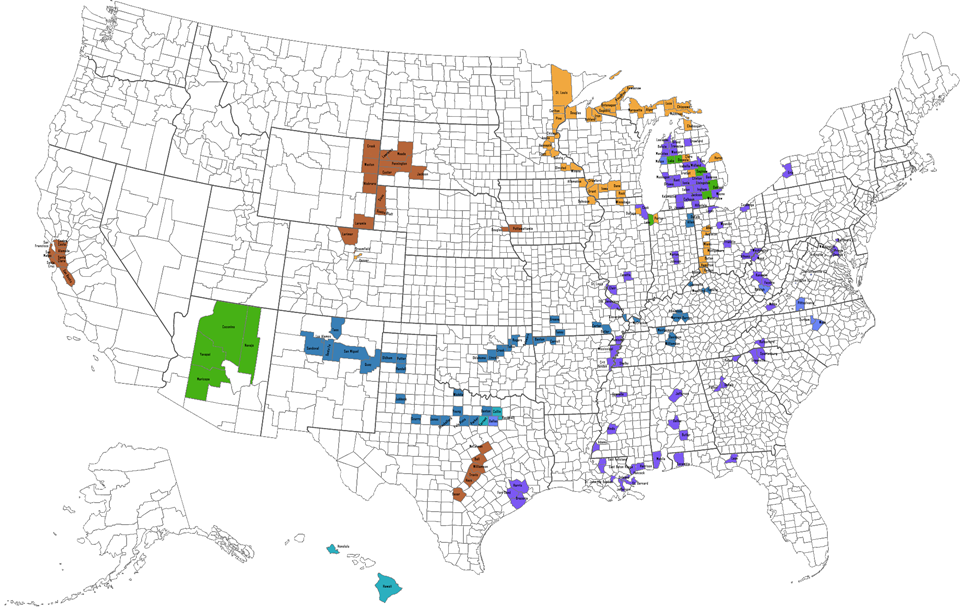
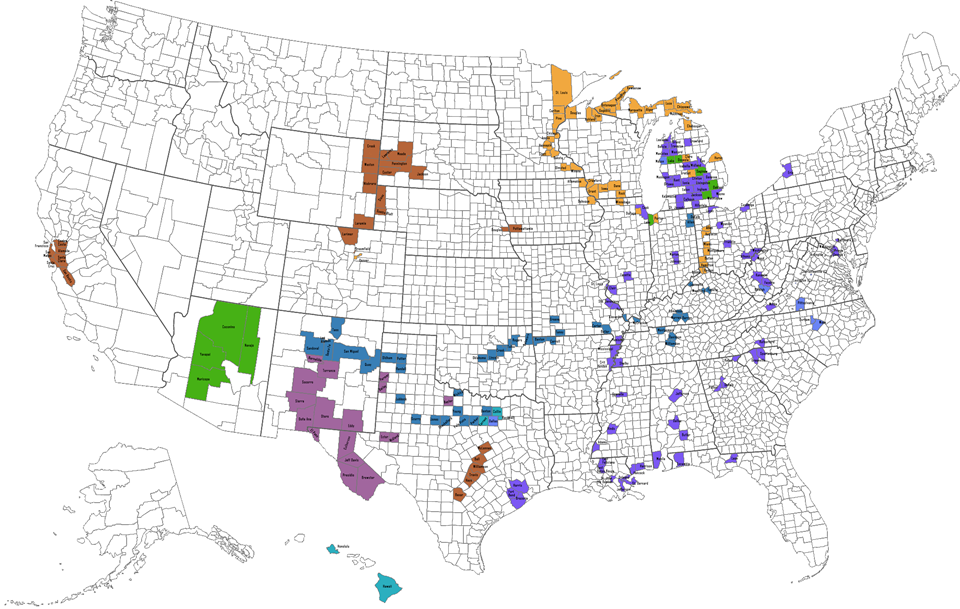
update
Feb 27 update

Changed region(s): [[0.2812, 0.5304, 0.4062, 0.8112], [0.625, 0.7488, 0.6562, 0.78]]

diff --git a/index.md b/index.md
@@ -28,6 +28,25 @@ feature_row:
     btn_class: "btn-info"
 ---
 
+Hi, I am Teng Zhang PhD, currently working as a postdoc scholar at Southern Methodist University. A couple of years ago, I graduated [Michigan State University](https://https://geo.msu.edu/) where I worked with Professors Siddharth Chandra and Ashton Shortridge. My research areas are in applied spatial data analysis, digital humanity, and urban/environmental economic geography. 
+
+<figure class="half">
+	<a href="/Indonesia/"><img src="/assets/images/res/Pop.png"></a>
+	<a href="/works/"><img src="/assets/images/res/GWR.png"></a>
+	<figcaption>Spatial Analysis and Indonesian Genocide</figcaption>
+</figure>
+
+Right now, I am completing my a paper about using network analysis as a tool to detect the local legal resource supply in southern united states. I will keep you updated. 
+
+My dissertation project, [*Unsafe Place: Spatial Analysis of Indonesian Genocide 1965-1966 in Java Timur*](/Indonesia) used innovative spatial quantitative techniques to answer three vital research questions about genocide: where, who, and how. 
+
+Aside from my academic pursuits, I have shared my knowledge and passion with students through the art of teaching, imparting the intricacies of Intermediate GIS, World Regional Geography, and GIS Technology. I am now in the midst of creating syllabi for new classes, hoping to delve into the fascinating fields of Human Geography and Geography of Violence.
+
+My journey to becoming a Michigander started as a senior analyst at Jones Lang LaSalle in Guangzhou, China, where I roamed the land and explored a multitude of real estate marvels: towering apartments, sprawling warehouses, bustling office buildings, and vibrant shopping centers. My experiences there continue to influence and inspire me in my research and analytical projects.
+
+When not immersed in work, I embrace my wanderlust and embark on adventures, with Peru and Bolivia next on my bucket list of places to visit.
+
+***
 # AAG 2023 Annual Meeting Poster
 Community’s Cohesion and Resistance
 <figure>
@@ -37,25 +56,10 @@ You can explore this poster [here (png format)](/assets/charts/AAG2023-Poster-f.
 
 ***
 
-Hi, I am Teng, a Ph.D. candidate about to graduate from [Michigan State University](https://https://geo.msu.edu/) where I worked with Professors Siddharth Chandra and Ashton Shortridge. My research areas are in applied spatial data analysis, digital humanity, and urban/environmental economic geography. 
-
-<figure class="half">
-	<a href="/Indonesia/"><img src="/assets/images/res/Pop.png"></a>
-	<a href="/works/"><img src="/assets/images/res/GWR.png"></a>
-	<figcaption>Spatial Analysis and Indonesian Genocide</figcaption>
-</figure>
-
-Right now, I am completing my dissertation project, [*Unsafe Place: Spatial Analysis of Indonesian Genocide 1965-1966 in Java Timur*](/Indonesia), which uses innovative spatial quantitative techniques to answer three vital research questions about genocide: where, who, and how. 
-
-Aside from my academic pursuits, I have shared my knowledge and passion with students through the art of teaching, imparting the intricacies of Intermediate GIS, World Regional Geography, and GIS Technology. I am now in the midst of creating syllabi for new classes, hoping to delve into the fascinating fields of Human Geography and Geography of Violence.
-
-My journey to becoming a Michigander started as a senior analyst at Jones Lang LaSalle in Guangzhou, China, where I roamed the land and explored a multitude of real estate marvels: towering apartments, sprawling warehouses, bustling office buildings, and vibrant shopping centers. My experiences there continue to influence and inspire me in my research and analytical projects.
-
-When not immersed in work, I embrace my wanderlust and embark on adventures, with Peru and Bolivia next on my bucket list of places to visit.
-
-***
-
 # Recent Research / Talks
 
-April 2023 | Association of American Geographers: [Who is implementing the killings in Indonesia](http://www.aag.org/).
+Mar 2023 | Association of American Geographers: [A network based metric for detecting legal resurces](http://www.aag.org/).
+Nov 2024 | American Society of Criminology: [Where are the lawyers in Texas?](http://www.aag.org/).
+Apr 2024 | Association of American Geographers: [Who should be responsible for the killings in Indonesia](http://www.aag.org/).
+Apr 2023 | Association of American Geographers: [Who is implementing the killings in Indonesia](http://www.aag.org/).
 
